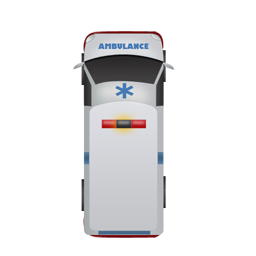
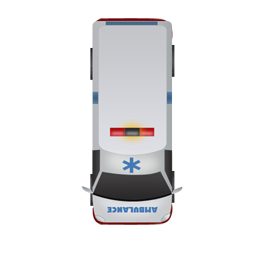
added traffic

Changed region(s): [[0.2812, 0.0625, 0.7188, 0.9375]]

diff --git a/src/main/resources/static/app.js b/src/main/resources/static/app.js
@@ -28,10 +28,18 @@ PIXI.Loader.shared
     .add("road1.png")
     .add("audi.png")
     .add("taxi.png")
+    .add("truck.png")
+    .add("semi.png")
+    .add("van.png")
+    .add("muscle.png")
     .load(setup);
 
 
 var audi, police, taxi, ambulance, state, road, mySound, accelerate;
+var oncommingLeftLane = 215;
+var oncommingRightLane = 100;
+var leftLane = 360;
+var rightLane = 560;
 var b = new Bump(PIXI);
 
 function setup() {
@@ -47,7 +55,7 @@ function setup() {
 
         var policeAnimationFrames = {
             texture: PIXI.Texture.from("police" + i + ".png"),
-            time: 100
+            time: 125
         };
 
         policeAnimation.push(policeAnimationFrames);
@@ -56,8 +64,8 @@ function setup() {
     police = new PIXI.AnimatedSprite(policeAnimation);
     police.play();
 
-    police.x = 350;
-    police.y = 125;
+    police.x = rightLane;
+    police.y = 700;
     police.vx = 0;
     police.vy = 0;
     //End police
@@ -70,40 +78,26 @@ function setup() {
 
         var ambulanceAnimationFrames = {
             texture: PIXI.Texture.from("ambulance" + i + ".png"),
-            time: 100
+            time: 125
         };
 
         ambulanceAnimation.push(ambulanceAnimationFrames);
     }
-
-    ambulance = new PIXI.AnimatedSprite(ambulanceAnimation);
-    ambulance.play();
-
-    ambulance.x = 495;
-    ambulance.y = 10;
-    ambulance.vx = 0;
-    ambulance.vy = 0;
     //End ambulance
 
     road = new PIXI.Sprite(PIXI.Loader.shared.resources["road1.png"].texture);
-    audi = new PIXI.Sprite(PIXI.Loader.shared.resources["audi.png"].texture);;
-    taxi = new PIXI.Sprite(PIXI.Loader.shared.resources["taxi.png"].texture);
+    audi = new PIXI.Sprite(PIXI.Loader.shared.resources["audi.png"].texture);
 
     var texture = PIXI.Texture.from('road1.png');
 
     //väljer en bakgrundsbild för att användas som texture till TilingSprite
-    var texture = PIXI.Texture.fromImage('road1.png');
+    var texture = PIXI.Texture.from('road1.png');
 
     //sätter bilens utgångsposition samt ursprungshastighet
-    audi.x = 350;
+    audi.x = rightLane;
     audi.y = 300;
     audi.vx = 0;
     audi.vy = 0;
-
-    taxi.x = 495;
-    taxi.y = 300;
-    taxi.vx = 0;
-    taxi.vy = 0;
 
     var tilingRoad = new PIXI.TilingSprite(
         texture,
@@ -115,8 +109,6 @@ function setup() {
     app.stage.addChild(tilingRoad);
     app.stage.addChild(audi);
     app.stage.addChild(police);
-    app.stage.addChild(ambulance);
-    app.stage.addChild(taxi);
 
     //sätter enums för piltangenterna keycodes
     var left = keyboard(37),
@@ -129,7 +121,7 @@ function setup() {
     //vänster
 
     left.press = () => {
-        audi.vx = -5;
+        audi.vx = -8;
         audi.vy = 0;
         mySound = new sound("tires.mp3");
         mySound.play();
@@ -159,7 +151,7 @@ function setup() {
 
     //Höger
     right.press = () => {
-        audi.vx = 5;
+        audi.vx = 8;
         audi.vy = 0;
         mySound = new sound("tires.mp3");
         mySound.play();
@@ -244,6 +236,61 @@ function setup() {
         }
     };
 
+    //Traffic
+    var numberOfVehicles = 50;
+    var vehicle;
+    var vehicleXPos;
+    var vehicleYPos;
+    var vehicleVelocity;
+    var vehicles = [];
+
+    for (var i = 0; i < numberOfVehicles; i++) {
+        var typeOfVehicle = Math.floor(Math.random() * (7 - 1) + 1);
+        var vehicleSpeed = Math.floor(Math.random() * (3 - 1) + 1);
+
+        switch (typeOfVehicle) {
+            case 1:
+                vehicle = new PIXI.Sprite(PIXI.Loader.shared.resources["truck.png"].texture);
+                break;
+            case 2:
+                vehicle = new PIXI.Sprite(PIXI.Loader.shared.resources["semi.png"].texture);
+                break;
+            case 3:
+                vehicle = new PIXI.Sprite(PIXI.Loader.shared.resources["van.png"].texture);
+                break;
+            case 4:
+                vehicle = new PIXI.Sprite(PIXI.Loader.shared.resources["muscle.png"].texture);
+                break;
+            case 5:
+                vehicle = new PIXI.Sprite(PIXI.Loader.shared.resources["taxi.png"].texture);
+                break;
+            case 6:
+                vehicle = ambulance = new PIXI.AnimatedSprite(ambulanceAnimation);
+                ambulance.play();
+                break;
+        }
+
+        if (vehicleSpeed == 1) {
+            vehicleXPos = oncommingRightLane;
+            vehicleVelocity = 15;
+
+        } else if (vehicleSpeed == 2) {
+            vehicleXPos = oncommingLeftLane;
+            vehicleVelocity = 20;
+        }
+
+        vehicleYPos = Math.floor(Math.random() * (0 - (-50000)) + (-50000));
+
+        vehicle.x = vehicleXPos;
+        vehicle.y = vehicleYPos;
+
+        vehicle.vy = vehicleVelocity;
+
+        vehicles.push(vehicle);
+
+        app.stage.addChild(vehicle);
+    }
+
     //Set the game state
     state = play;
 
@@ -284,12 +331,12 @@ function play(delta) {
     audi.y += audi.vy;
     road.x += road.vx;
     road.y += road.vy;
-
     police.x += police.vx;
     police.y += police.vy;
 
-    taxi.x += taxi.vx;
-    taxi.y += taxi.vy;
+    for (i = 0; i < vehicles.length; i++) {
+        vehicles[i].y += vehicles[i].vy;
+    }
 }
 
 function update(){
